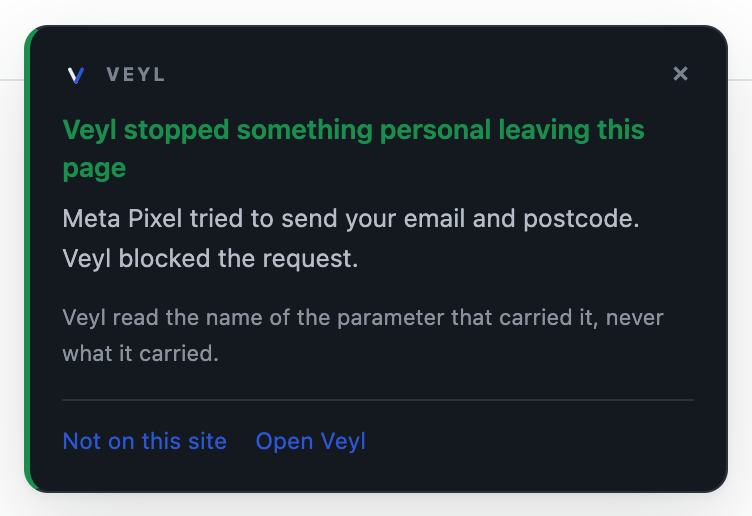
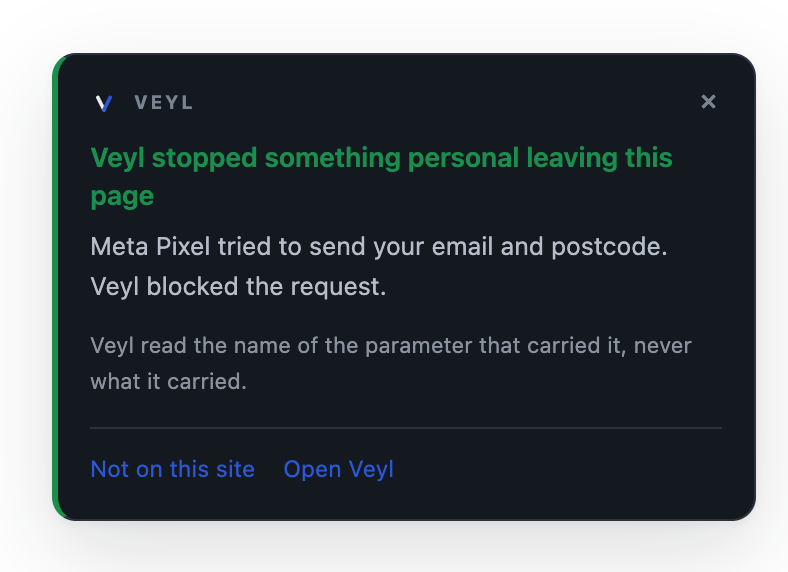
Drop the white frame around the on-page note
The note was clipped out of the fixture page it was drawn on, so the
page's own white background came with it and sat as a bright rectangle
inside an otherwise dark row.

Hides the page before capturing and writes the card with an alpha
channel, so the site's background shows through its rounded corners and
its shadow falls on the row rather than on a white square.

Changed region(s): [[0.0306, 0.031, 0.9787, 0.9612], [0.1223, 0.7442, 0.9176, 0.7752], [0.887, 0.124, 0.9176, 0.186]]

diff --git a/site/index.html b/site/index.html
@@ -187,7 +187,7 @@
           </p>
         </div>
         <figure class="feature__media">
-          <img src="assets/shot-notice.png" alt="Veyl’s on-page note: Meta Pixel tried to send your email and postcode, and Veyl blocked the request." width="368" height="252" loading="lazy">
+          <img src="assets/shot-notice.png" alt="Veyl’s on-page note: Meta Pixel tried to send your email and postcode, and Veyl blocked the request." width="368" height="267" loading="lazy">
         </figure>
       </div>
 
